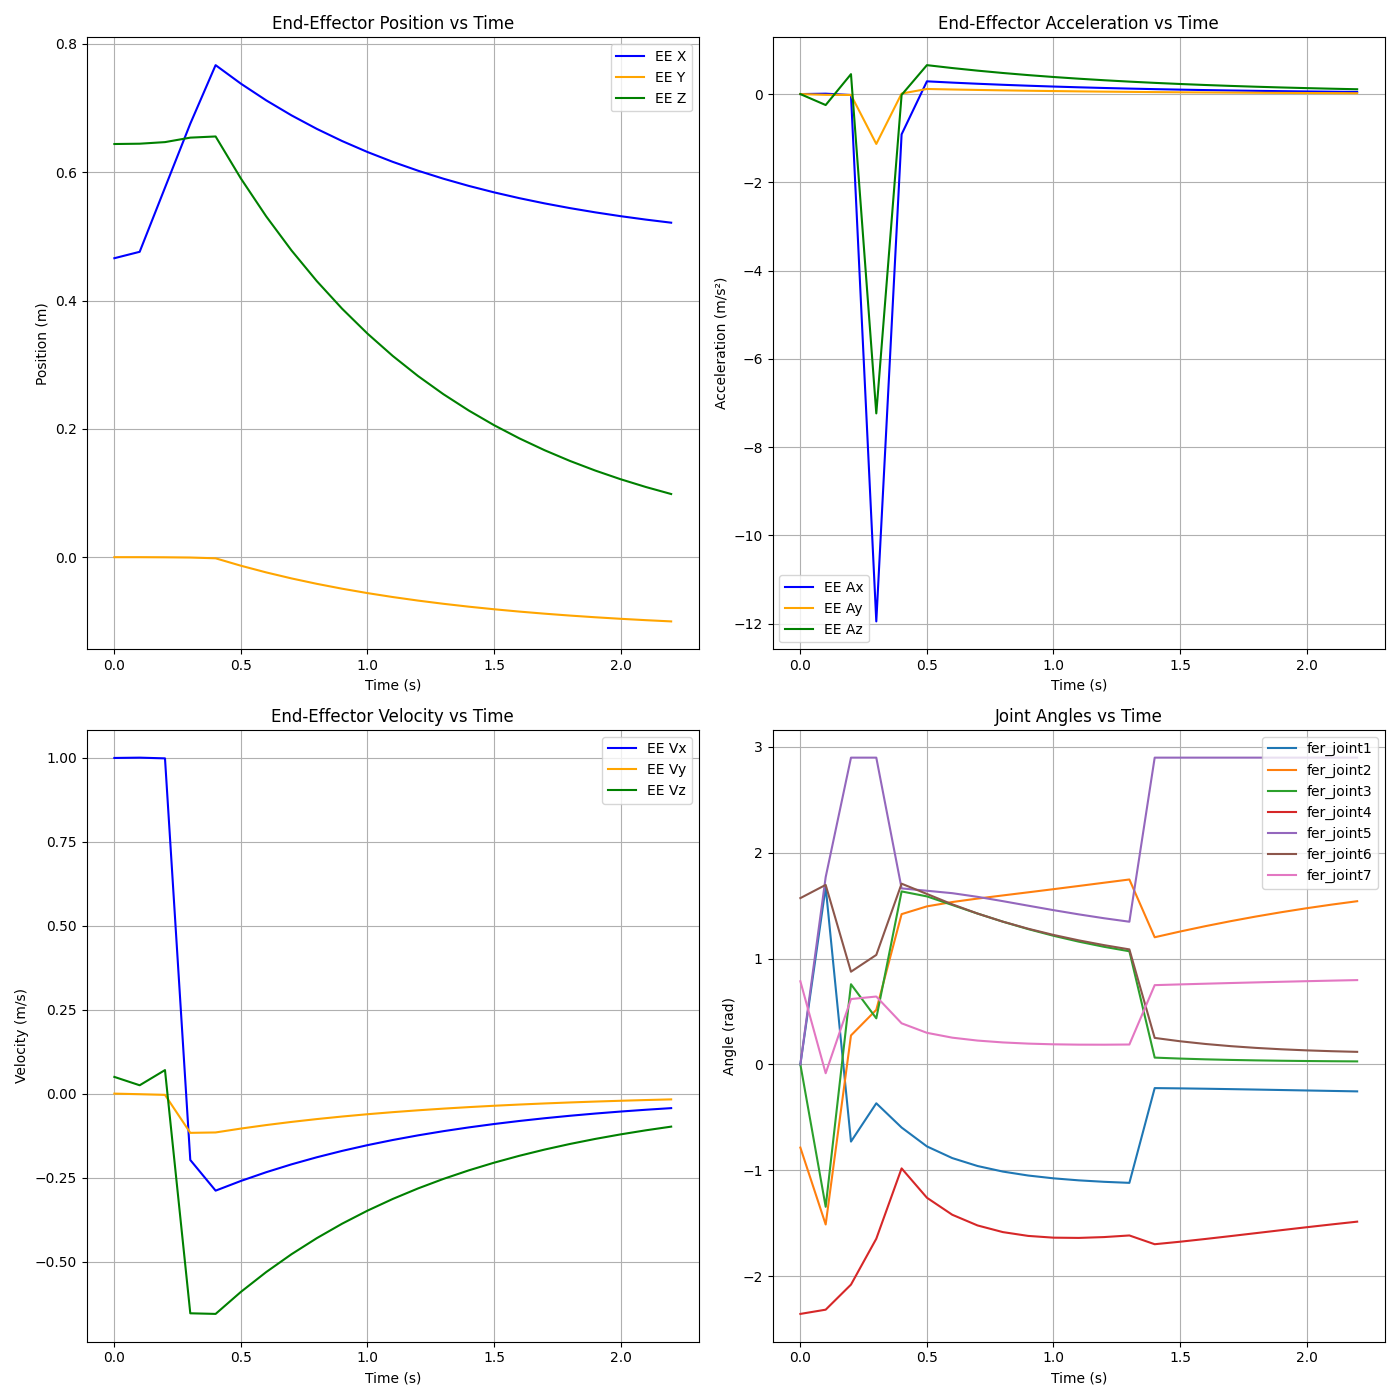
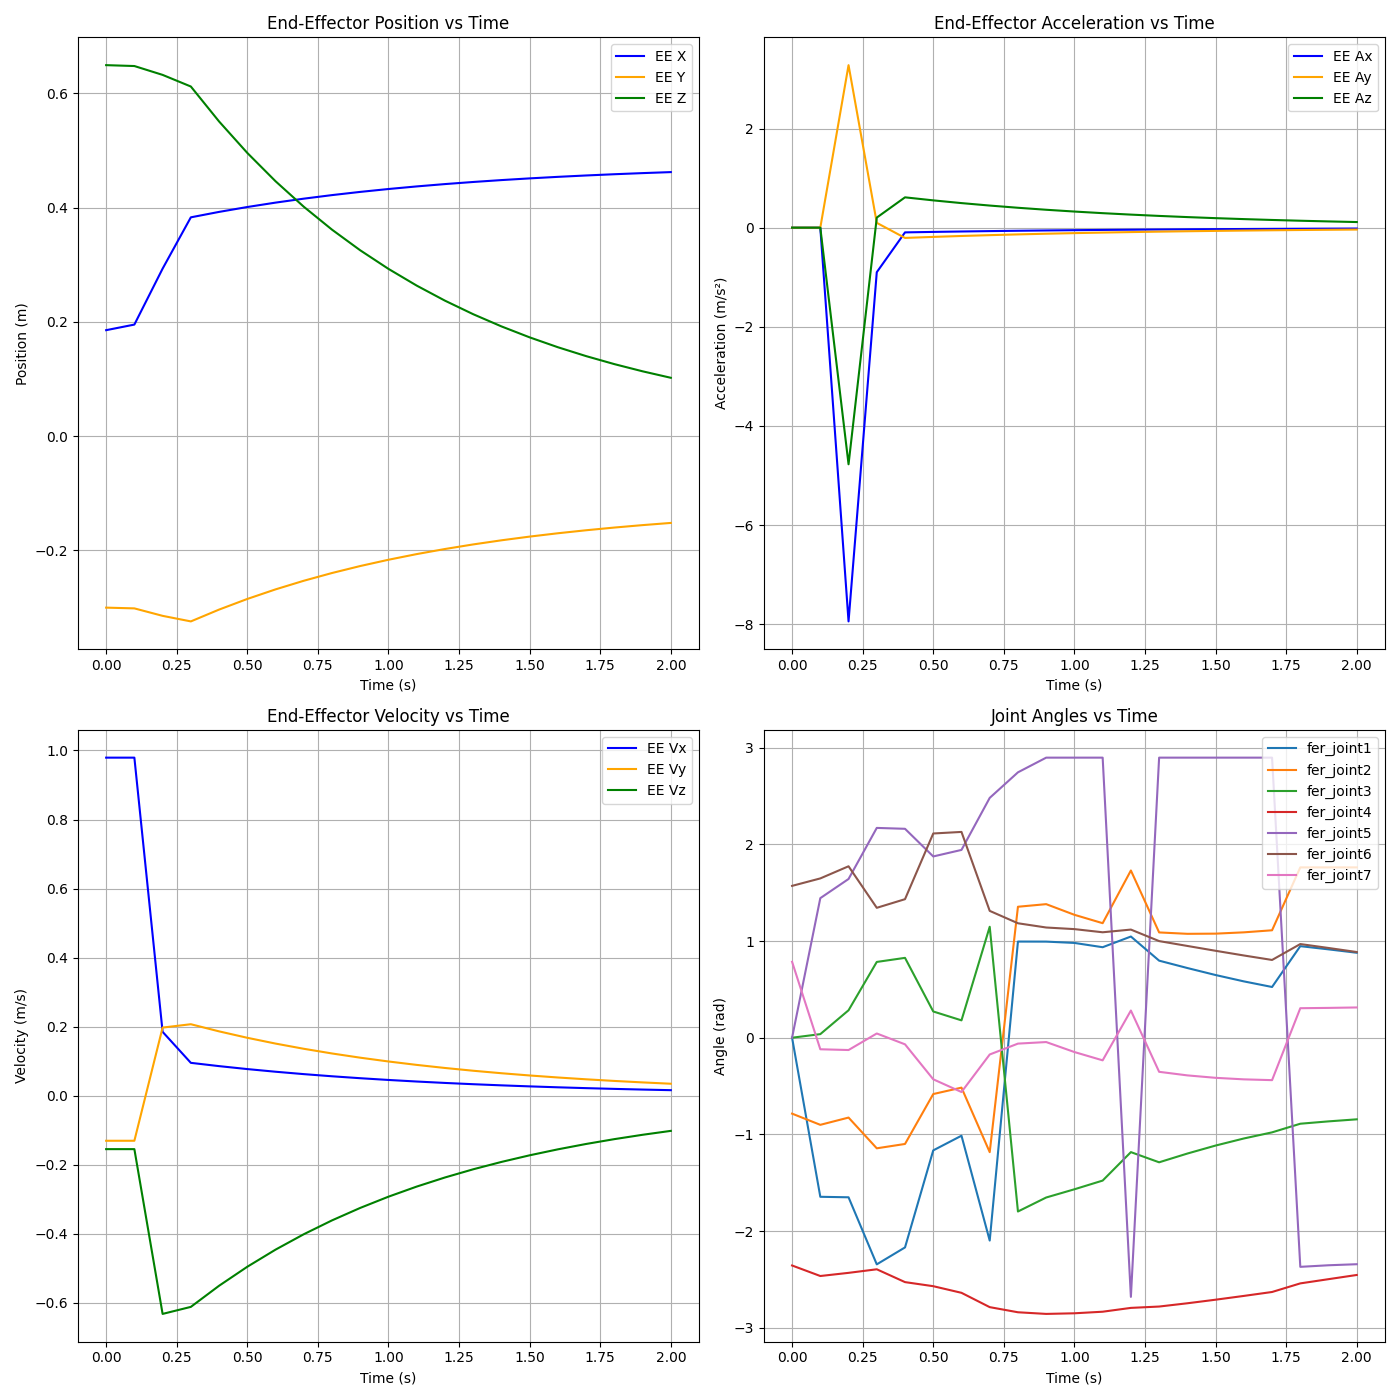
New demo will use fer_hand_tcp pose as start

diff --git a/pfields_demo/pfields_demo/pf_demo.py b/pfields_demo/pfields_demo/pf_demo.py
@@ -12,6 +12,7 @@ from std_srvs.srv import Empty
 from trajectory_msgs.msg import JointTrajectory
 from control_msgs.msg import JointTolerance
 from control_msgs.action import FollowJointTrajectory
+import tf2_ros
 
 
 class PFDemo(Node):
@@ -42,9 +43,16 @@ class PFDemo(Node):
         self.traj_action_client = ActionClient(
             self, FollowJointTrajectory, '/fer_arm_controller/follow_joint_trajectory')
         # Wait for action server until available
-        while not self.traj_action_client.wait_for_server(timeout_sec=2.0):
+        if not self.traj_action_client.wait_for_server(timeout_sec=1.0):
             self.get_logger().info('Waiting for FollowJointTrajectory action server...')
-        self.get_logger().info('FollowJointTrajectory action server is available.')
+        if self.traj_action_client.server_is_ready():
+            self.get_logger().info('FollowJointTrajectory action server is available.')
+        else:
+            self.get_logger().warn('FollowJointTrajectory action server is not available.')
+
+        # Initialize transform listener
+        self.tf_buffer = tf2_ros.Buffer()
+        self.tf_listener = tf2_ros.TransformListener(self.tf_buffer, self)
 
         # Buffers for action execution logging
         self._traj_feedback_log = []  # list of samples captured from feedback
@@ -54,16 +62,32 @@ class PFDemo(Node):
         self.get_logger().info('Running plan path demo...')
         req = PlanPath.Request()
 
+        # Get the transform from world -> fer_hand_tcp and use that tf
+        # pose as the start pose
         start = PoseStamped()
-        start.header.frame_id = self.fixed_frame
-        start.header.stamp = self.get_clock().now().to_msg()
-        start.pose.position.x = 0.466
-        start.pose.position.y = 0.0
-        start.pose.position.z = 0.644
-        start.pose.orientation.x = 0.0
-        start.pose.orientation.y = 0.0
-        start.pose.orientation.z = 0.0
-        start.pose.orientation.w = 1.0
+        try:
+            transform = self.tf_buffer.lookup_transform(
+                self.fixed_frame, 'fer_hand_tcp', rclpy.time.Time()
+            )
+            start.header.frame_id = transform.header.frame_id
+            start.header.stamp = self.get_clock().now().to_msg()
+            start.pose.position.x = transform.transform.translation.x
+            start.pose.position.y = transform.transform.translation.y
+            start.pose.position.z = transform.transform.translation.z
+            start.pose.orientation = transform.transform.rotation
+        except (tf2_ros.LookupException, tf2_ros.ConnectivityException, tf2_ros.ExtrapolationException) as e:
+            self.get_logger().error(
+                f"Failed to get fer_hand_tcp transform: {e}"
+            )
+            start.header.frame_id = self.fixed_frame
+            start.header.stamp = self.get_clock().now().to_msg()
+            start.pose.position.x = 0.466
+            start.pose.position.y = 0.0
+            start.pose.position.z = 0.644
+            start.pose.orientation.x = 0.0
+            start.pose.orientation.y = 0.0
+            start.pose.orientation.z = 0.0
+            start.pose.orientation.w = 1.0
 
         goal = PoseStamped()
         goal.header.frame_id = self.fixed_frame
